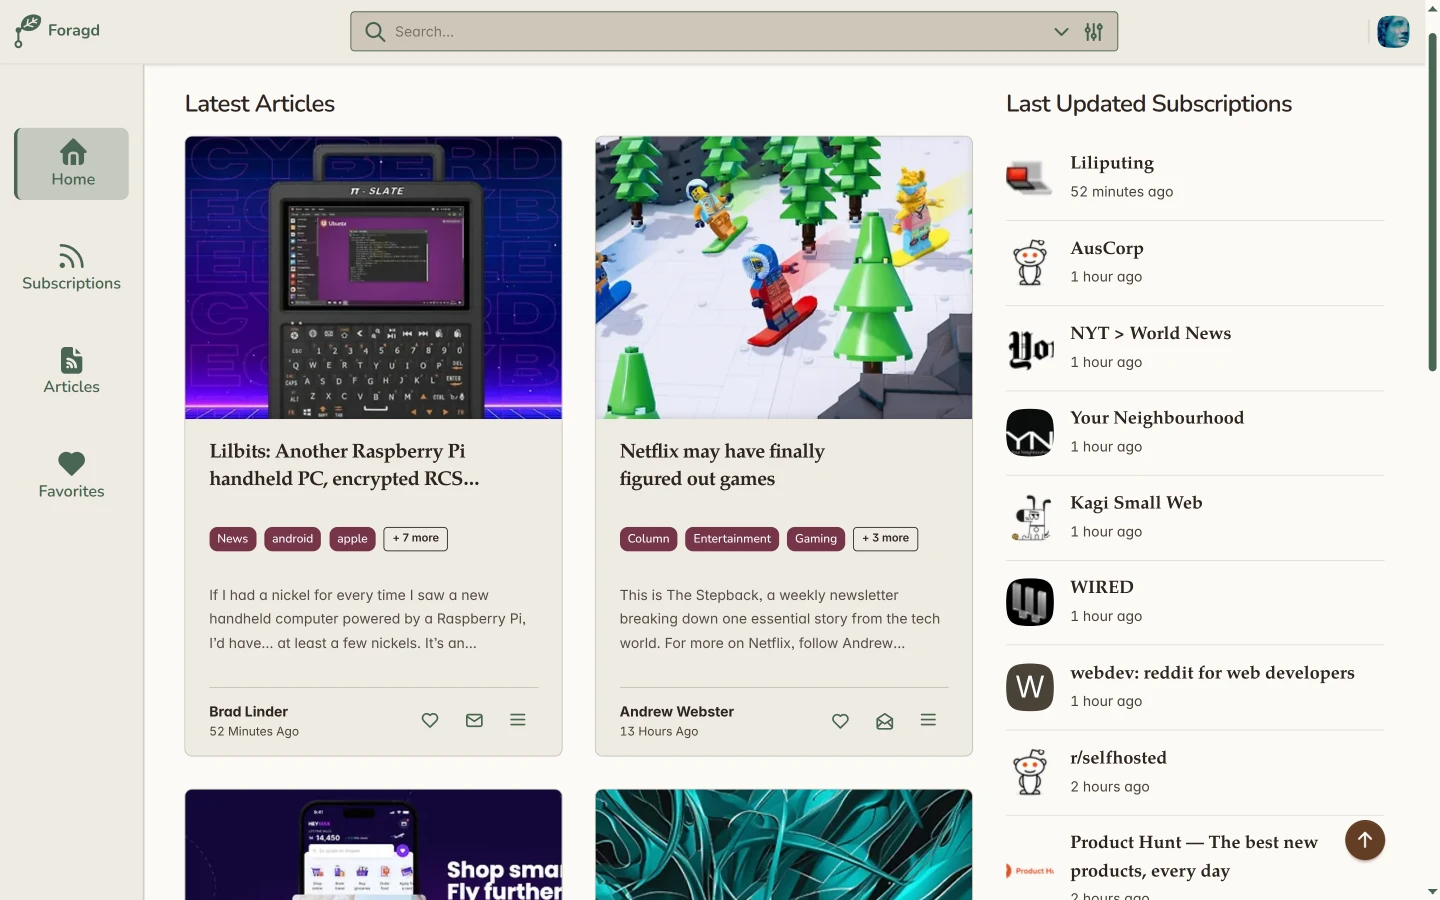
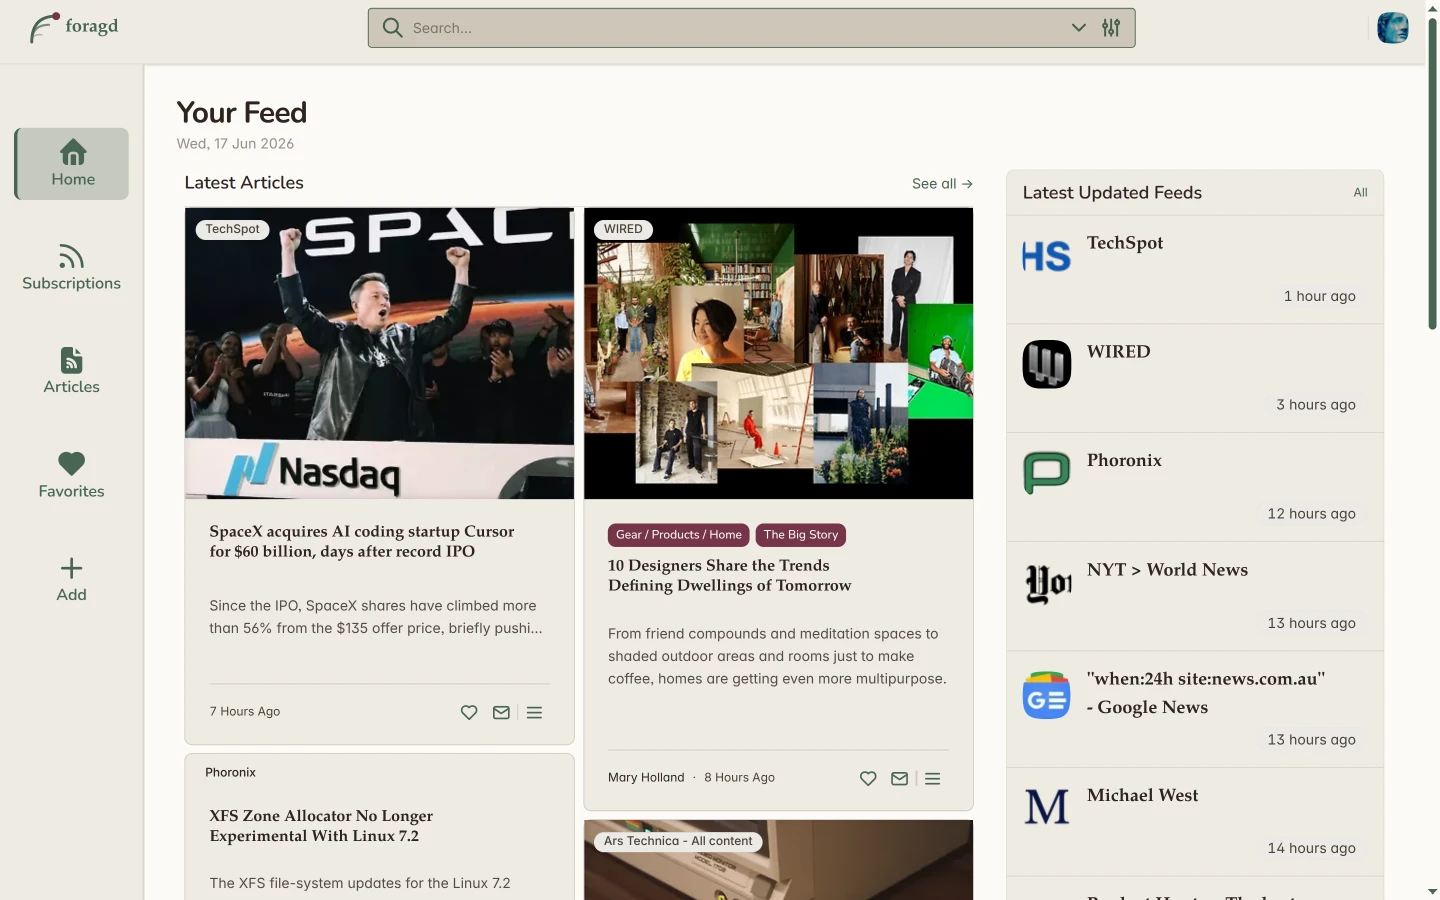
feat(assets): ⬆ update screenshot on landing page

diff --git a/web/templates/landing_templ.go b/web/templates/landing_templ.go
@@ -194,7 +194,7 @@ func Landing() templ.Component {
 			if templ_7745c5c3_Err != nil {
 				return templ_7745c5c3_Err
 			}
-			templ_7745c5c3_Err = templruntime.WriteString(templ_7745c5c3_Buffer, 2, "</div><nav class=\"mt-10 flex items-center justify-center gap-x-6\" aria-label=\"Primary actions\"><a class=\"btn text-sm/6 font-semibold btn-primary\" href=\"/signup\">Start a free trial</a> <a href=\"/features\" class=\"btn text-sm/6 font-semibold btn-outline\">See features</a></nav><div class=\"mt-5 text-sm/6 font-semibold\">Already have an account?<a href=\"/login\" class=\"link\">&nbsp;Log in</a></div></div></div></div></div><div id=\"features\" class=\"mt-32 sm:mt-56\"><div class=\"mx-auto mb-12 max-w-7xl px-6 lg:px-8\"><div class=\"mx-auto max-w-2xl lg:text-center\"><h2 class=\"text-base/7 font-semibold text-secondary\">Features</h2><p class=\"mt-2 font-display text-4xl font-semibold tracking-tight text-pretty text-primary sm:text-5xl lg:text-balance\">See content YOU choose. Not what platforms push.</p><p class=\"mt-6 text-lg/8 text-neutral\">Your internet, your way. One place for every feed, newsletter, and article. All fully searchable, always in sync, never algorithmic.</p></div><div class=\"mt-16 flow-root sm:mt-24\"><button command=\"show-modal\" commandfor=\"main-screenshot\" type=\"button\"><img src=\"/content/screenshots/screenshot-main.webp\" width=\"1920\" height=\"1200\" decoding=\"async\" fetchpriority=\"high\" alt=\"Foragd RSS feed reader showing subscription cards and article list on desktop and mobile\" class=\"rounded-box object-scale-down shadow-xl\"></button>")
+			templ_7745c5c3_Err = templruntime.WriteString(templ_7745c5c3_Buffer, 2, "</div><nav class=\"mt-10 flex items-center justify-center gap-x-6\" aria-label=\"Primary actions\"><a class=\"btn text-sm/6 font-semibold btn-primary\" href=\"/signup\">Start a free trial</a> <a href=\"/features\" class=\"btn text-sm/6 font-semibold btn-outline\">See features</a></nav><div class=\"mt-5 text-sm/6 font-semibold\">Already have an account?<a href=\"/login\" class=\"link\">&nbsp;Log in</a></div></div></div></div></div><div id=\"features\" class=\"mt-32 sm:mt-56\"><div class=\"mx-auto mb-12 max-w-7xl px-6 lg:px-8\"><div class=\"mx-auto max-w-2xl lg:text-center\"><h2 class=\"text-base/7 font-semibold text-secondary\">Features</h2><p class=\"mt-2 font-display text-4xl font-semibold tracking-tight text-pretty text-primary sm:text-5xl lg:text-balance\">See content YOU choose. Not what platforms push.</p><p class=\"mt-6 text-lg/8 text-neutral\">Your internet, your way. One place for every feed, newsletter, and article. All fully searchable, always in sync, never algorithmic.</p></div><div class=\"mt-16 flow-root sm:mt-24\"><button command=\"show-modal\" commandfor=\"main-screenshot\" type=\"button\"><img src=\"/content/screenshots/main.webp\" width=\"2250\" height=\"1304\" decoding=\"async\" fetchpriority=\"high\" alt=\"Foragd RSS feed reader showing subscription cards and article list on desktop and mobile\" class=\"rounded-box object-scale-down shadow-xl\"></button>")
 			if templ_7745c5c3_Err != nil {
 				return templ_7745c5c3_Err
 			}
@@ -210,7 +210,7 @@ func Landing() templ.Component {
 					}()
 				}
 				ctx = templ.InitializeContext(ctx)
-				templ_7745c5c3_Err = templruntime.WriteString(templ_7745c5c3_Buffer, 3, "<img src=\"/content/screenshots/screenshot-main.webp\" width=\"1920\" height=\"1200\" decoding=\"async\" alt=\"Foragd RSS feed reader showing subscription cards and article list on desktop and mobile\" class=\"mx-auto w-full object-scale-down sm:max-w-360\">")
+				templ_7745c5c3_Err = templruntime.WriteString(templ_7745c5c3_Buffer, 3, "<img src=\"/content/screenshots/main.webp\" width=\"2250\" height=\"1304\" decoding=\"async\" alt=\"Foragd RSS feed reader showing subscription cards and article list on desktop and mobile\" class=\"mx-auto w-full object-scale-down sm:max-w-360\">")
 				if templ_7745c5c3_Err != nil {
 					return templ_7745c5c3_Err
 				}
